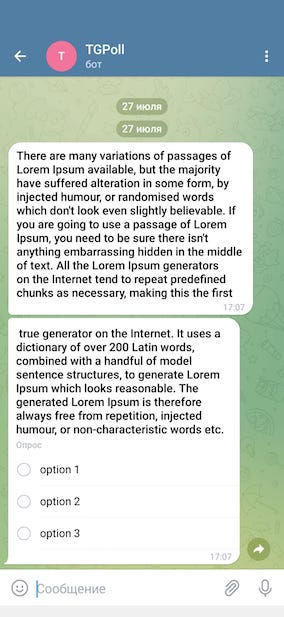
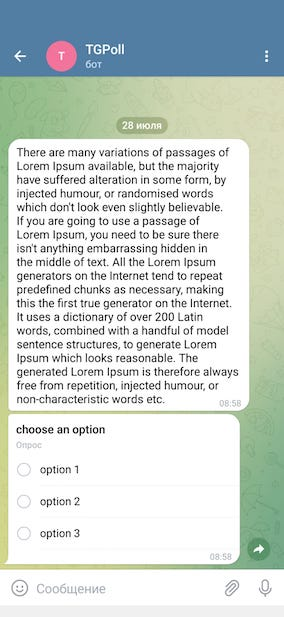
docs: refreshing

diff --git a/README.md b/README.md
@@ -51,10 +51,12 @@ _Запрос:_ POST /v1/
 ```
 
 Если поле message превышает 300 символов, то задание разбивается на два этапа:
-- посылка сообщения, с остатками текста, что превышает 300 символов
-- посылка опроса, с длиной заголовка не более 300 символов
+- *посылка сообщения, с полем message* 
+- *посылка опроса, с длиной заголовком "choose an option"*
 
-Максимальная длина полей buttons - 100 символов
+
+- **Максимальная длина поля message - 4096 символов**
+- **Максимальная длина полей buttons - 100 символов**
 
 _Ответ:_
 ```json
